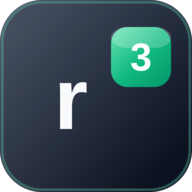
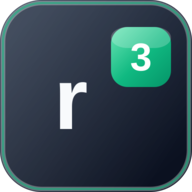
Add faq

Changed region(s): [[0.0, 0.0, 1.0, 1.0]]

diff --git a/src/styles/style.css b/src/styles/style.css
@@ -400,9 +400,15 @@ textarea:focus-visible {
 
 .card {
   display: block; text-decoration: none; color: inherit;
-  background: #1f2937; border-radius: 12px; overflow: hidden;
-  border: 1px solid rgba(255,255,255,0.06);
-  box-shadow: 0 10px 26px rgba(0,0,0,.30);
+  background:
+    linear-gradient(145deg, rgba(255, 255, 255, 0.06) 0%, rgba(255, 255, 255, 0.02) 42%, transparent 100%),
+    rgba(11, 17, 32, 0.9);
+  border-radius: 14px;
+  overflow: hidden;
+  border: 1px solid rgba(255,255,255,0.08);
+  box-shadow:
+    inset 0 1px 0 rgba(255, 255, 255, 0.06),
+    0 10px 26px rgba(0,0,0,.30);
   transition:
     transform 0.28s cubic-bezier(0.2, 0.8, 0.2, 1),
     box-shadow 0.28s ease,
@@ -411,16 +417,61 @@ textarea:focus-visible {
 
 .card--project {
   height: 100%;
+  position: relative;
+}
+
+.card--project::after {
+  content: '';
+  position: absolute;
+  top: 0;
+  left: 0;
+  right: 0;
+  height: 2px;
+  background: linear-gradient(90deg, #10b981 0%, #38bdf8 55%, transparent 100%);
+  opacity: 0.65;
+  pointer-events: none;
+}
+
+.card--project::before {
+  content: '';
+  position: absolute;
+  inset: 0;
+  border-radius: inherit;
+  padding: 1px;
+  background: linear-gradient(165deg, rgba(16, 185, 129, 0.18) 0%, transparent 40%, transparent 100%);
+  -webkit-mask: linear-gradient(#fff 0 0) content-box, linear-gradient(#fff 0 0);
+  mask: linear-gradient(#fff 0 0) content-box, linear-gradient(#fff 0 0);
+  -webkit-mask-composite: xor;
+  mask-composite: exclude;
+  opacity: 0.55;
+  pointer-events: none;
+  transition: opacity 0.28s ease;
 }
 
 .card--project:hover {
   transform: translateY(-8px);
   border-color: rgba(16,185,129,0.35);
-  box-shadow: 0 18px 40px rgba(0,0,0,.35);
+  box-shadow:
+    inset 0 1px 0 rgba(255, 255, 255, 0.08),
+    0 18px 40px rgba(0,0,0,.35),
+    0 0 0 1px rgba(16, 185, 129, 0.08);
+}
+
+.card--project:hover::before {
+  opacity: 0.78;
 }
 
 .card-media-wrap {
   overflow: hidden;
+  position: relative;
+}
+
+.card-media-wrap::after {
+  content: '';
+  position: absolute;
+  inset: 0;
+  background: linear-gradient(180deg, transparent 0%, rgba(0,0,0,0.08) 55%, rgba(0,0,0,0.22) 100%);
+  pointer-events: none;
 }
 
 .card-media {
@@ -432,13 +483,42 @@ textarea:focus-visible {
   transform: scale(1.05);
 }
 .card-body { padding: 1.25rem 1.25rem 1.3rem; }
+.project-path{
+  display: flex;
+  align-items: center;
+  gap: .35rem;
+  margin: 0 0 .7rem;
+  min-height: 1.15rem;
+  font-family: ui-monospace, 'Cascadia Code', monospace;
+  font-size: .72rem;
+  font-weight: 500;
+  letter-spacing: .04em;
+  color: #64748b;
+  text-transform: lowercase;
+}
+.project-prompt{ color: #10b981; font-weight: 700; }
 .card-body h3 { font-size: 1.35rem; font-weight: 700; color: #f3f4f6; margin: 0 0 .45rem; }
 .card-body p { font-size: .98rem; color: #9ca3af; margin: 0 0 1rem; }
 .tags { display: flex; gap: .5rem; flex-wrap: wrap; }
 .tags span {
-  background: #374151; color: #e5e7eb;
-  padding: .28rem .7rem; border-radius: 999px; font-size: .86rem; font-weight: 500;
-  border: 1px solid rgba(255,255,255,0.06);
+  font-family: ui-monospace, 'Cascadia Code', monospace;
+  background: rgba(0, 0, 0, 0.35);
+  color: #cbd5e1;
+  padding: .3rem .55rem;
+  border-radius: 6px;
+  font-size: .72rem;
+  font-weight: 600;
+  letter-spacing: .04em;
+  text-transform: uppercase;
+  border: 1px solid rgba(255,255,255,0.08);
+  white-space: nowrap;
+  overflow: hidden;
+  text-overflow: ellipsis;
+}
+
+.card--project:focus-visible {
+  outline: 2px solid #10b981;
+  outline-offset: 3px;
 }
 
 /* ================= Projekt-Detailseiten ================= */